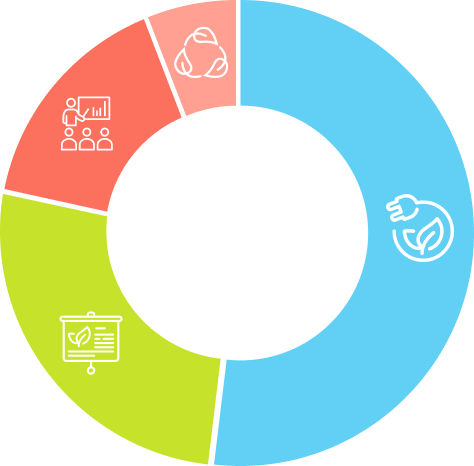
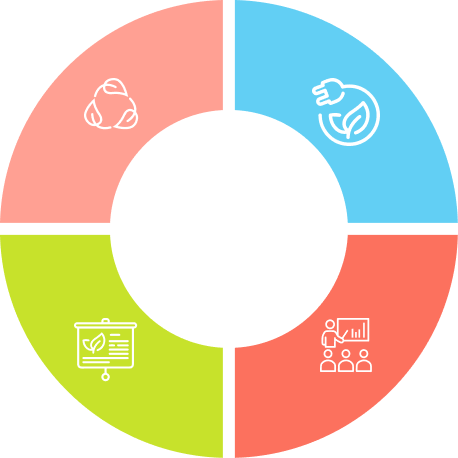
agregado gráfico nuevo en NOS ELIGEN

diff --git a/src/components/HomeNosEligen.tsx b/src/components/HomeNosEligen.tsx
@@ -127,7 +127,7 @@ export const HomeNosEligen = () => {
                 Hemos desarrollado{" "}
                 <strong className="text-[#62cff4] font-bold">nuestros proyectos</strong> en los procesos de:
               </h3>
-              <ul className="lg:grid lg:grid-rows-[repeat(5,_20px)] lg:grid-cols-[repeat(2,_250px)] lg:grid-flow-col">
+              <ul className="lg:grid lg:grid-rows-[repeat(4,_22px)] lg:grid-cols-[repeat(2,_250px)] lg:grid-flow-col">
                 <li className="font-light flex items-center gap-x-1 leading-none text-xs mb-4 lg:h-max">
                   <span>
                     <CircleSmall />
@@ -158,7 +158,7 @@ export const HomeNosEligen = () => {
                   </span>
                   <span>Sistemas de Impulsión Agua de Mar y Desalada</span>
                 </li>
-                <li className="font-light flex items-center gap-x-1 leading-none text-xs mb-4 lg:h-max">
+                <li className="font-light flex items-center gap-x-1 leading-none text-xs mb-4 mt-3 lg:h-max">
                   <span>
                     <CircleSmall />
                   </span>
